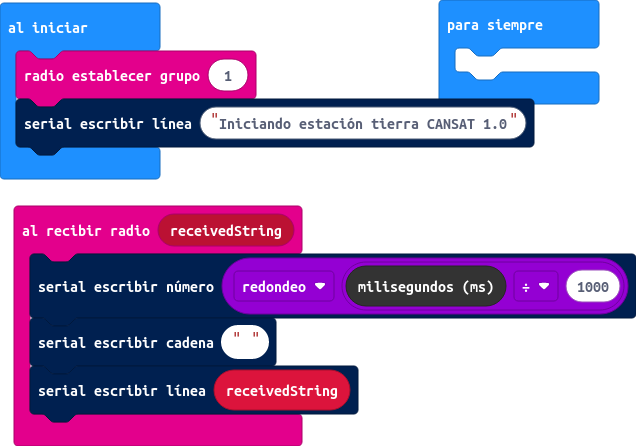
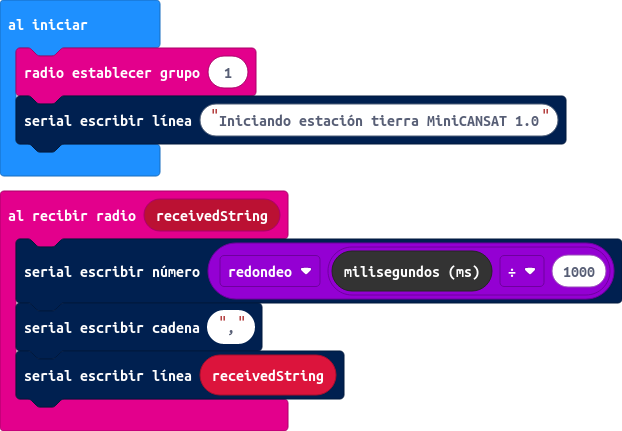
Con la coma para que aprezca en la web

Changed region(s): [[0.0, 0.0, 1.0, 1.0]]

diff --git a/main.ts b/main.ts
@@ -1,10 +1,7 @@
 radio.onReceivedString(function (receivedString) {
     serial.writeNumber(Math.round(control.millis() / 1000))
-    serial.writeString(" ")
+    serial.writeString(",")
     serial.writeLine(receivedString)
 })
 radio.setGroup(1)
-serial.writeLine("Iniciando estación tierra CANSAT 1.0")
-basic.forever(function () {
-	
-})
+serial.writeLine("Iniciando estación tierra MiniCANSAT 1.0")
